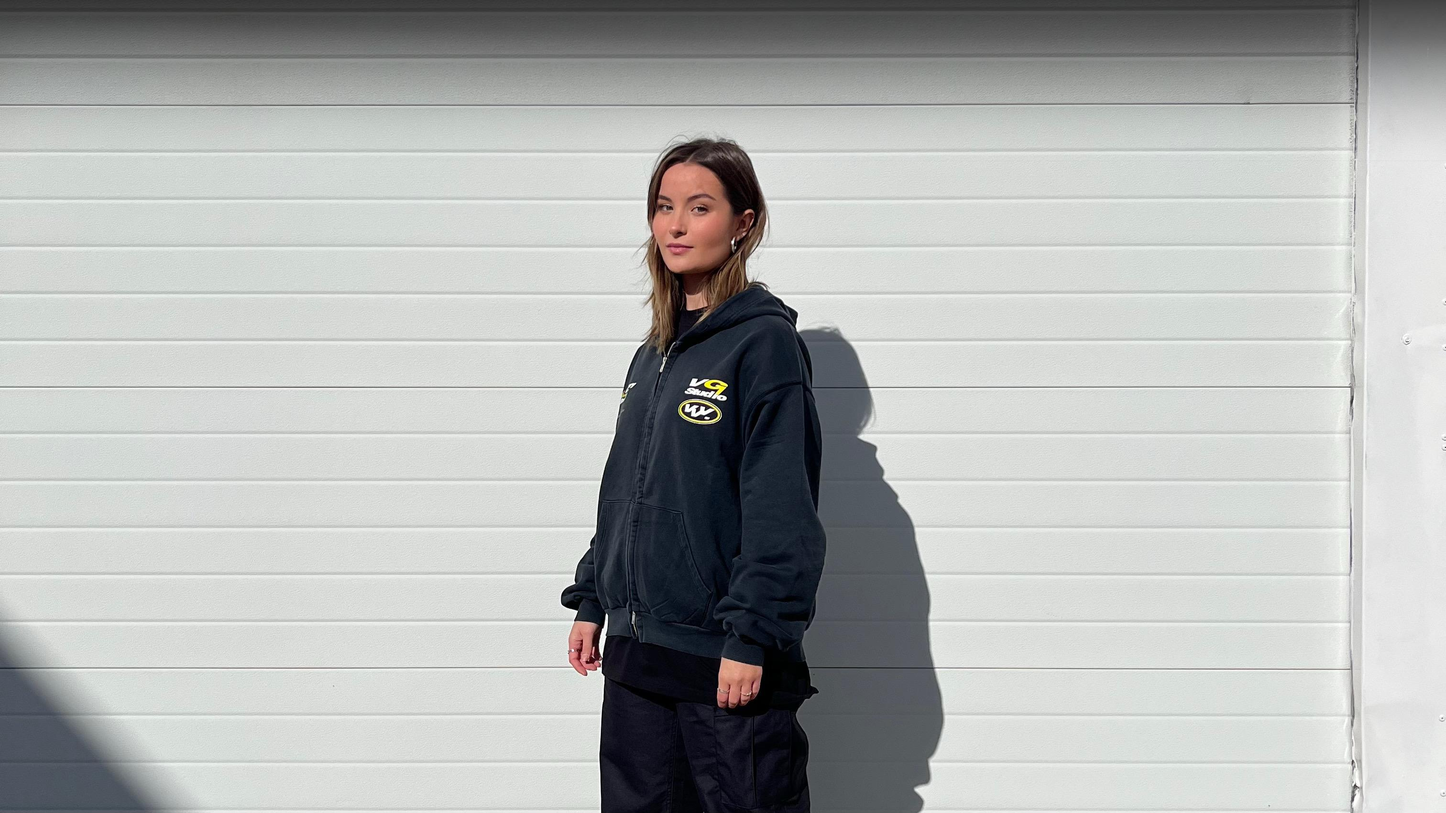
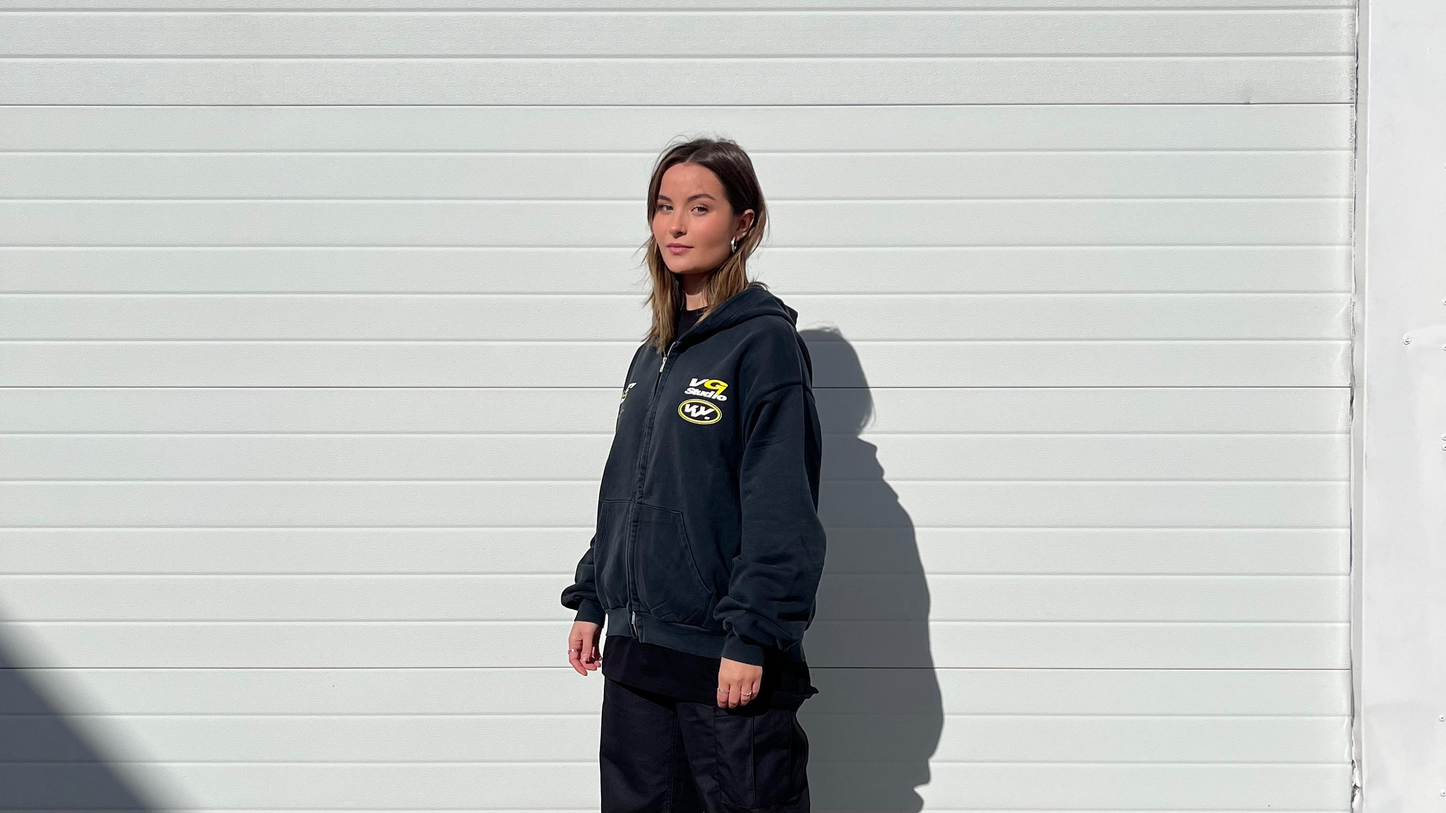
Main page fix with auto fade

Changed region(s): [[0.0, 0.0, 1.0, 0.1558]]

diff --git a/src/modules/home/components/CollectionSection.tsx b/src/modules/home/components/CollectionSection.tsx
@@ -9,6 +9,7 @@ type Props = {
   handle?: string
   imageUrl: string
   products?: any[]
+  isFirstCollection?: boolean
 }
 
 export default function CollectionSection({
@@ -17,15 +18,22 @@ export default function CollectionSection({
   handle,
   imageUrl,
   products = [],
+  isFirstCollection = false,
 }: Props) {
   const safeProducts = Array.isArray(products) ? products : []
   const href = handle ? `/collections/${handle}` : `/collections/id/${id}`
   const img = imageUrl || "/placeholder.jpg"
 
   return (
-    <section className="mb-8">
+    <section>
       <div className="relative w-full h-[100dvh] overflow-hidden hero--cover">
         <Image src={img} alt={title} fill priority className="object-cover" sizes="100vw" />
+
+        {/* Condicional para aplicar el gradiente solo en la primera colección */}
+        {isFirstCollection && (
+          <div className="absolute top-0 left-0 right-0 h-[15%] bg-gradient-to-b from-black to-transparent z-10"></div>
+        )}
+
         <div className="absolute bottom-0 left-0 right-0 p-6 flex flex-col items-center text-center">
           <h2 className="text-3xl font-semibold text-white mb-2">{title.toLocaleUpperCase()}</h2>
           <Link href={href} className="text-white hover:text-white/80 transition">

diff --git a/src/app/[countryCode]/(main)/page.tsx b/src/app/[countryCode]/(main)/page.tsx
@@ -38,7 +38,7 @@ if (!collections || collections.length === 0) {
 }
   return (
     <div className="flex flex-col gap-16">
-      {collections.map((collection: any) => {
+      {collections.map((collection: any, index: number) => {
         const imageUrl =
         collection?.metadata?.cover_image ||
           collection?.products?.[0]?.thumbnail ||
@@ -52,6 +52,7 @@ if (!collections || collections.length === 0) {
             handle={collection.handle}
             imageUrl={imageUrl}
             products={collection.products ?? []}
+            isFirstCollection={index === 0}
           />
         )
       })}
